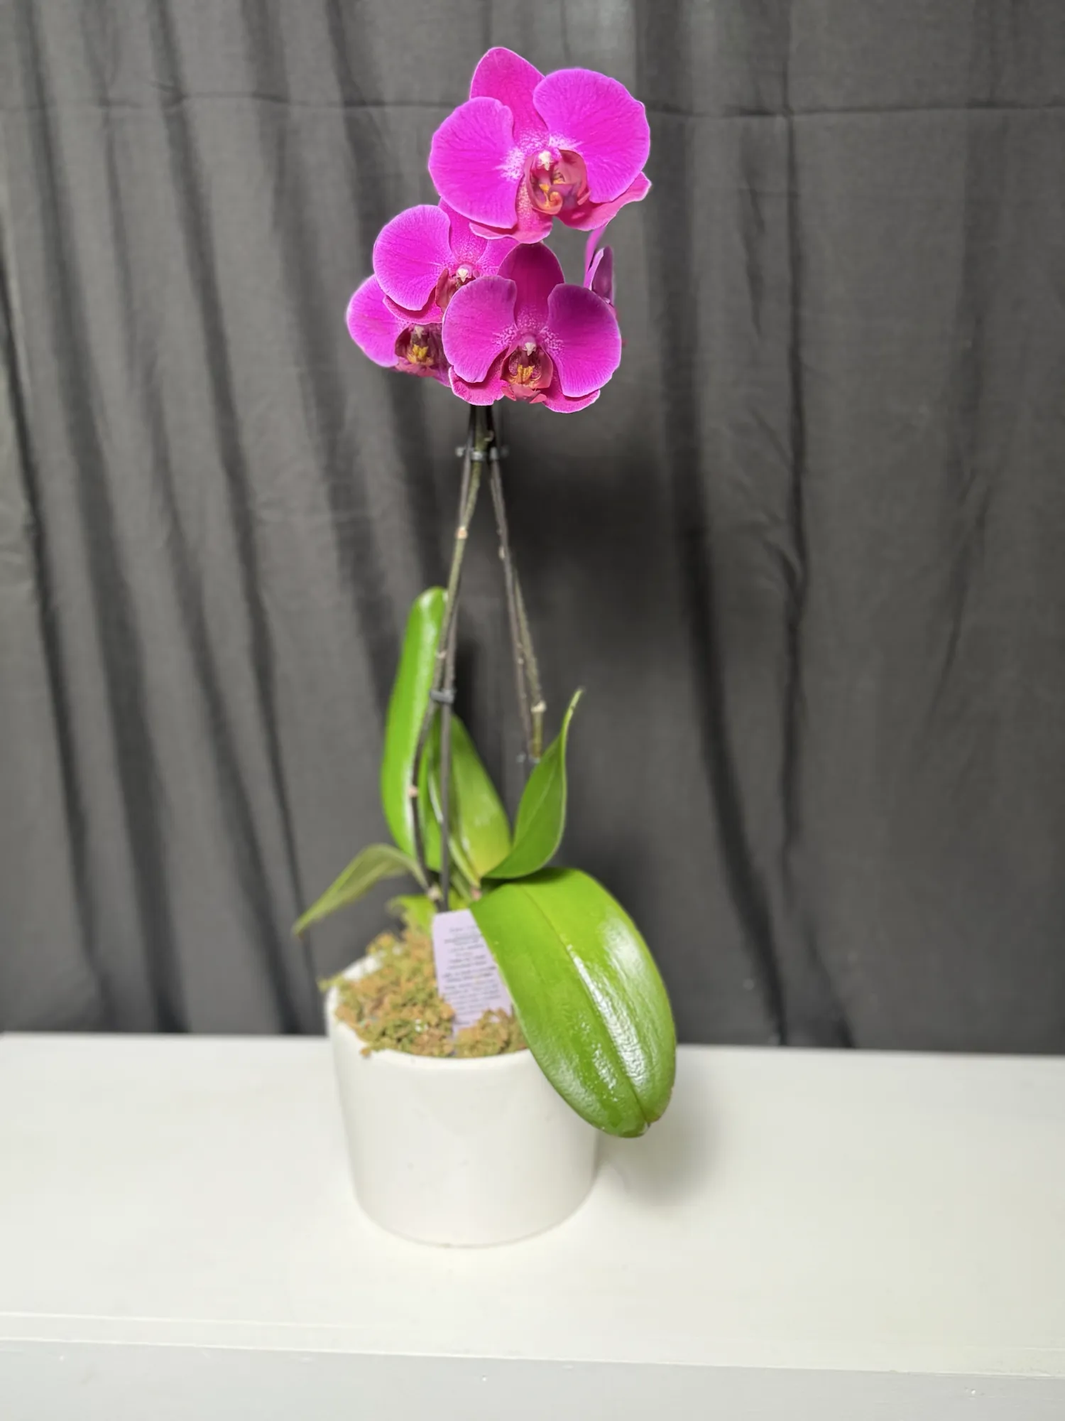
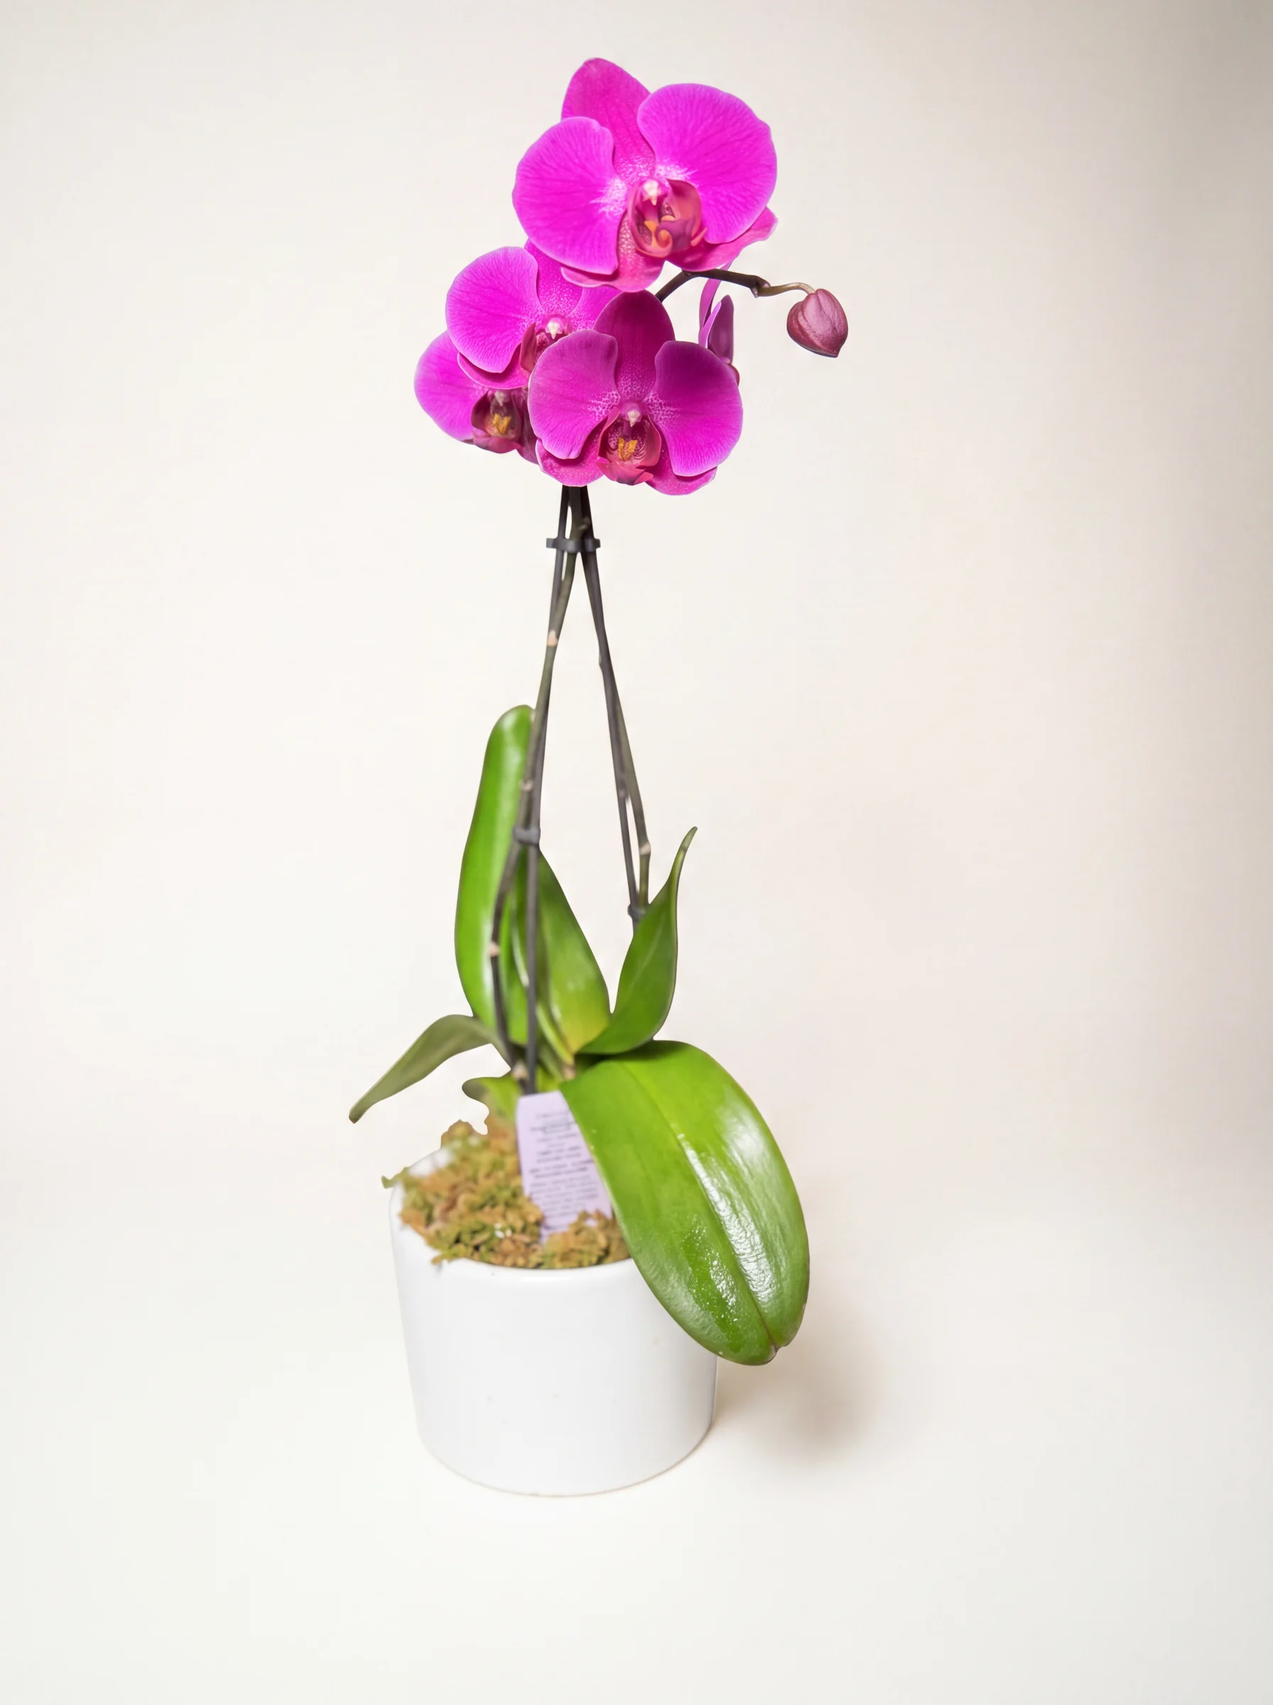
feat(catalog): five arrangements from the September shoot, and one orchid set
Maky shot twelve pieces on 1–3 Sep against the black cloth and the white table.
Every one of them went through the image studio with the background directive we
already use: replace only the surface and the backdrop, keep the arrangement
flower for flower, leave a real contact shadow so nothing looks cut and pasted.

Five products, prices Maky set
soft-landing $90, chantilly-cream $120, rose-quartz $125, pink-persuasion $110,
cotton-candy $115. Single Standard variant each, because that is the one price
Maky quoted — the Grand/Diva tiers other entries carry were never real for these.
Copy names the actual stems (hydrangea, garden rose, cymbidium, lisianthus) so
the generated title and the PDP accordion have something true to work from;
"Chantilly Cream" and not "Chantilly Garden" because the descriptor injects
"Garden Rose" and the title would have said Garden twice.

The orchid page is one series now
The phalaenopsis gallery mixed one edited photo with three raw ones — black
cloth, white table, the shop's fluorescent light. The pink single and the
fuchsia are re-edited onto the same bone cyclorama the white single already had,
and the new two-stem photo replaces the old raw pink double, in the gallery and
on the "Two stems · $85" card. The $85 price is unchanged; it was already right.

Its description claimed a white ceramic pot, which the new photo is not — it is
a moss-topped glass cube — so the copy now allows both rather than showing a
vessel it says we do not send.
[…]

diff --git a/data/products.ts b/data/products.ts
@@ -2318,8 +2318,8 @@ export const PRODUCTS: Product[] = [
       es: "Una orquídea viva que florece dos o tres meses, no dos o tres días.",
     },
     description: {
-      en: "A phalaenopsis in a white ceramic pot, moss-topped, chosen from what's blooming best that morning. Cut flowers give you a week; this gives you eight to twelve weeks of bloom, and then it comes back next year if you let it. Choose one stem or two — the double is the one people notice from the doorway. Colors rotate with what's in: white, soft pink, fuchsia. Order before 2:00 pm for same-day delivery on Long Island. Care card included, and honestly the whole card comes down to: water once a week, never leave it sitting in a saucer.",
-      es: "Una phalaenopsis en maceta de cerámica blanca, con musgo, elegida entre las que mejor están floreciendo esa mañana. Las flores cortadas te dan una semana; esta te da de ocho a doce semanas de floración, y vuelve el año siguiente si la dejas. Elige un tallo o dos — la doble es la que se nota desde la puerta. Los colores rotan según lo que haya: blanca, rosa suave, fucsia. Pide antes de las 2:00 pm para entrega el mismo día en Long Island. Incluye tarjeta de cuidado, y la tarjeta entera se resume en: riega una vez por semana y nunca la dejes parada en el plato.",
+      en: "A phalaenopsis in a white ceramic pot or a moss-topped glass cube, chosen from what's blooming best that morning. Cut flowers give you a week; this gives you eight to twelve weeks of bloom, and then it comes back next year if you let it. Choose one stem or two — the double is the one people notice from the doorway. Colors rotate with what's in: white, soft pink, fuchsia. Order before 2:00 pm for same-day delivery on Long Island. Care card included, and honestly the whole card comes down to: water once a week, never leave it sitting in a saucer.",
+      es: "Una phalaenopsis en maceta de cerámica blanca o en cubo de cristal con musgo, elegida entre las que mejor están floreciendo esa mañana. Las flores cortadas te dan una semana; esta te da de ocho a doce semanas de floración, y vuelve el año siguiente si la dejas. Elige un tallo o dos — la doble es la que se nota desde la puerta. Los colores rotan según lo que haya: blanca, rosa suave, fucsia. Pide antes de las 2:00 pm para entrega el mismo día en Long Island. Incluye tarjeta de cuidado, y la tarjeta entera se resume en: riega una vez por semana y nunca la dejes parada en el plato.",
     },
     images: [
       {
@@ -2339,10 +2339,10 @@ export const PRODUCTS: Product[] = [
         aspect: "4/5",
       },
       {
-        src: "/products/phalaenopsis-pink-double.webp",
+        src: "/products/phalaenopsis-pink-double-glass.webp",
         alt: {
-          en: "Soft pink phalaenopsis orchid with two stems in a square white ceramic pot",
-          es: "Orquídea phalaenopsis rosa suave de dos tallos en maceta cuadrada de cerámica blanca",
+          en: "Soft pink phalaenopsis orchid with two stems in a glass cube topped with moss",
+          es: "Orquídea phalaenopsis rosa suave de dos tallos en cubo de cristal con musgo",
         },
         aspect: "4/5",
       },
@@ -3359,6 +3359,245 @@ export const PRODUCTS: Product[] = [
       description: {
         en: "Quiet winter arrangement with cedar, moss, and amaryllis. Same-day delivery on Long Island.",
         es: "Arreglo invernal sereno con cedro, musgo y amaryllis. Entrega el mismo día en Long Island.",
+      },
+    },
+  },
+  // ─── Shot in the studio 2026-09-03 ─────────────────
+  {
+    id: "p-arr-b4-01",
+    slug: "soft-landing",
+    title: { en: "Soft Landing", es: "Aterrizaje Suave" },
+    category: "arrangements",
+    blurb: {
+      en: "White hydrangea, blush roses, and cymbidium orchids, built low and round for a table people sit around.",
+      es: "Hortensias blancas, rosas blush y orquídeas cymbidium, bajo y redondo para una mesa donde la gente se sienta.",
+    },
+    description: {
+      en: "For the friend who has had a long week and would never say so — white hydrangea packed close, blush roses, pink cymbidium orchids, lavender lisianthus, and green viburnum, built low and round in a clear glass bowl so it clears a coffee table and never blocks a conversation. Pastel without turning sweet: the white hydrangea carries the light, the lavender lisianthus keeps it from reading like a nursery, and the cymbidium orchids are the detail people lean in for. It lands at the door and reads again from across the room, which is the whole point of sending flowers instead of a text. Order before 2:00 pm and it goes out today across Long Island, built to the photo in the same palette with whatever came in freshest that morning.",
+      es: "Para la amiga que tuvo una semana larga y jamás lo diría — hortensias blancas bien juntas, rosas blush, orquídeas cymbidium rosadas, lisianthus lavanda y viburnum verde, armado bajo y redondo en un cuenco de vidrio transparente para que quepa en una mesa de centro y no tape la conversación. Pastel sin volverse dulzón: la hortensia blanca lleva la luz, el lisianthus lavanda evita que parezca cuarto de bebé, y las orquídeas cymbidium son el detalle por el que la gente se acerca. Llega en la puerta y se vuelve a leer desde el otro lado del cuarto, que es justamente para lo que uno manda flores en vez de un mensaje. Pídelo antes de las 2:00 pm y sale hoy mismo por Long Island, armado como la foto en la misma paleta con lo que haya entrado más fresco esa mañana.",
+    },
+    images: [
+      {
+        src: "/products/soft-landing.jpg",
+        alt: {
+          en: "Low round arrangement of white hydrangea, blush roses, pink cymbidium orchids, and lavender lisianthus in a clear glass bowl",
+          es: "Arreglo bajo y redondo de hortensias blancas, rosas blush, orquídeas cymbidium rosadas y lisianthus lavanda en cuenco de vidrio transparente",
+        },
+        aspect: "4/5",
+      },
+    ],
+    variants: [
+      { id: "standard", label: { en: "Standard", es: "Estándar" }, priceCents: 9000 },
+    ],
+    tags: ["new", "same-day", "staff-pick"],
+    occasions: ["birthday", "get-well", "thinking-of-you", "new-baby", "congrats", "just-because"],
+    colorFamily: ["white", "pink", "pastel"],
+    active: true,
+    seo: {
+      title: { en: "Soft Landing — Diva Flowers", es: "Aterrizaje Suave — Diva Flowers" },
+      description: {
+        en: "Low round arrangement of white hydrangea, blush roses, and cymbidium orchids in clear glass. Same-day delivery on Long Island.",
+        es: "Arreglo bajo y redondo de hortensias blancas, rosas blush y orquídeas cymbidium en vidrio transparente. Entrega el mismo día en Long Island.",
+      },
+    },
+  },
+  {
+    id: "p-arr-b4-02",
+    slug: "chantilly-cream",
+    title: { en: "Chantilly Cream", es: "Crema Chantilly" },
+    category: "arrangements",
+    blurb: {
+      en: "Butter-cream garden roses and cymbidium orchids, packed close with green hydrangea.",
+      es: "Rosas de jardín color mantequilla y orquídeas cymbidium, bien juntas con hortensia verde.",
+    },
+    description: {
+      en: "For the one who sets the table properly even on a Wednesday — cream and butter garden roses opened wide, blush cymbidium orchids, white spray roses, green hydrangea, pink stock, and lisianthus, gathered close in a low glass bowl with eucalyptus spilling over one side. It is the arrangement that reads expensive without announcing it: no bright color, nothing spiky, just layers of cream and green that hold their shape for the better part of a week. Send it for the promotion, the dinner party, the apology that deserves more than a text. Order before 2:00 pm and it goes out today across Long Island, built to the photo in the same palette with whatever came in freshest that morning.",
+      es: "Para quien pone bien la mesa hasta un miércoles — rosas de jardín crema y mantequilla abiertas de par en par, orquídeas cymbidium blush, mini-rosas blancas, hortensia verde, alhelí rosado y lisianthus, reunidas en un cuenco bajo de vidrio con eucalipto cayendo por un costado. Es el arreglo que se ve caro sin anunciarlo: nada de color estridente, nada puntiagudo, solo capas de crema y verde que aguantan la forma casi una semana. Mándalo por el ascenso, por la cena, por la disculpa que merece más que un mensaje. Pídelo antes de las 2:00 pm y sale hoy mismo por Long Island, armado como la foto en la misma paleta con lo que haya entrado más fresco esa mañana.",
+    },
+    images: [
+      {
+        src: "/products/chantilly-cream.jpg",
+        alt: {
+          en: "Low arrangement of cream garden roses, blush cymbidium orchids, and green hydrangea in a glass bowl",
+          es: "Arreglo bajo de rosas de jardín crema, orquídeas cymbidium blush y hortensia verde en cuenco de vidrio",
+        },
+        aspect: "4/5",
+      },
+      {
+        src: "/products/chantilly-cream-2.jpg",
+        alt: {
+          en: "Chantilly Cream arrangement seen from above, cream garden roses and cymbidium orchids",
+          es: "Arreglo Crema Chantilly visto desde arriba, rosas de jardín crema y orquídeas cymbidium",
+        },
+        aspect: "4/5",
+      },
+    ],
+    variants: [
+      { id: "standard", label: { en: "Standard", es: "Estándar" }, priceCents: 12000 },
+    ],
+    tags: ["new", "same-day", "staff-pick"],
+    occasions: ["anniversary", "congrats", "birthday", "thank-you", "just-because"],
+    colorFamily: ["white", "green", "pastel"],
+    active: true,
+    seo: {
+      title: { en: "Chantilly Cream — Diva Flowers", es: "Crema Chantilly — Diva Flowers" },
+      description: {
+        en: "Cream garden roses, cymbidium orchids, and green hydrangea in a low glass bowl. Same-day delivery on Long Island.",
+        es: "Rosas de jardín crema, orquídeas cymbidium y hortensia verde en cuenco bajo de vidrio. Entrega el mismo día en Long Island.",
+      },
+    },
+  },
+  {
+    id: "p-arr-b4-03",
+    slug: "rose-quartz",
+    title: { en: "Rose Quartz", es: "Cuarzo Rosa" },
+    category: "arrangements",
+    blurb: {
+      en: "White lilies and mauve roses over antique-pink hydrangea — the quiet one that still fills a room.",
+      es: "Lirios blancos y rosas malva sobre hortensia rosa antiguo — el discreto que igual llena el cuarto.",
+    },
+    description: {
+      en: "For the one who reads the room before speaking — white lilies opening over mauve and cream garden roses, antique-pink hydrangea, white stock, calla lilies, and lavender lisianthus, with lily grass arching above the whole thing. Half the lilies arrive closed on purpose: they open across the week, so the arrangement is still becoming something on day five. The mauve keeps it out of nursery territory and the white stock brings the scent. Send it for the birthday that matters, the thank-you that has weight, the get-well that should not look cheerful. Order before 2:00 pm and it goes out today across Long Island, built to the photo in the same palette with whatever came in freshest that morning.",
+      es: "Para quien lee el cuarto antes de hablar — lirios blancos abriéndose sobre rosas de jardín malva y crema, hortensia rosa antiguo, alhelí blanco, callas y lisianthus lavanda, con lily grass arqueada por encima de todo. La mitad de los lirios llegan cerrados a propósito: abren a lo largo de la semana, así que al quinto día el arreglo todavía se está convirtiendo en algo. El malva lo saca del terreno de cuarto de bebé y el alhelí pone el aroma. Mándalo por el cumpleaños que importa, el gracias que pesa, el mejórate que no debería verse alegre. Pídelo antes de las 2:00 pm y sale hoy mismo por Long Island, armado como la foto en la misma paleta con lo que haya entrado más fresco esa mañana.",
+    },
+    images: [
+      {
+        src: "/products/rose-quartz.jpg",
+        alt: {
+          en: "Arrangement of white lilies, mauve roses, and antique-pink hydrangea in a clear glass bowl",
+          es: "Arreglo de lirios blancos, rosas malva y hortensia rosa antiguo en cuenco de vidrio transparente",
+        },
+        aspect: "4/5",
+      },
+      {
+        src: "/products/rose-quartz-2.jpg",
+        alt: {
+          en: "Rose Quartz arrangement from above, white lily open over pink hydrangea and mauve roses",
+          es: "Arreglo Cuarzo Rosa desde arriba, lirio blanco abierto sobre hortensia rosada y rosas malva",
+        },
+        aspect: "4/5",
+      },
+      {
+        src: "/products/rose-quartz-3.jpg",
+        alt: {
+          en: "Rose Quartz arrangement in a green ceramic cylinder with lilies, garden roses, and pink hydrangea",
+          es: "Arreglo Cuarzo Rosa en cilindro de cerámica verde con lirios, rosas de jardín y hortensia rosada",
+        },
+        aspect: "4/5",
+      },
+    ],
+    variants: [
+      { id: "standard", label: { en: "Standard", es: "Estándar" }, priceCents: 12500 },
+    ],
+    tags: ["new", "same-day", "staff-pick"],
+    occasions: ["birthday", "anniversary", "get-well", "thank-you", "thinking-of-you", "just-because"],
+    colorFamily: ["pink", "white", "pastel"],
+    active: true,
+    seo: {
+      title: { en: "Rose Quartz — Diva Flowers", es: "Cuarzo Rosa — Diva Flowers" },
+      description: {
+        en: "White lilies, mauve garden roses, and antique-pink hydrangea, built low in glass. Same-day delivery on Long Island.",
+        es: "Lirios blancos, rosas de jardín malva y hortensia rosa antiguo, armado bajo en vidrio. Entrega el mismo día en Long Island.",
+      },
+    },
+  },
+  {
+    id: "p-arr-b4-04",
+    slug: "pink-persuasion",
+    title: { en: "Pink Persuasion", es: "Persuasión Rosa" },
+    category: "arrangements",
+    blurb: {
+      en: "Hot pink roses against green hydrangea in a deep green cylinder — colour with a spine.",
+      es: "Rosas fucsia contra hortensia verde en cilindro verde profundo — color con carácter.",
+    },
+    description: {
+      en: "For the friend who never needed the volume turned down — hot pink roses at full open, blush and cream spray roses, pink lisianthus, and green hydrangea packed tight in a deep green ceramic cylinder. The green is doing the work here: it keeps the fuchsia from going sweet and gives the whole thing a hedge-clipped, deliberate edge. Compact enough for a desk or a nightstand, loud enough that nobody has to ask who sent it. Send it for the birthday, the new job, the Tuesday that needed rescuing. Order before 2:00 pm and it goes out today across Long Island, built to the photo in the same palette with whatever came in freshest that morning.",
+      es: "Para la amiga que nunca necesitó que le bajaran el volumen — rosas fucsia bien abiertas, mini-rosas blush y crema, lisianthus rosado y hortensia verde apretadas en un cilindro de cerámica verde profundo. El verde es el que hace el trabajo: evita que el fucsia se vuelva dulzón y le da al conjunto un filo recortado, deliberado. Compacto para un escritorio o una mesa de noche, y lo bastante fuerte para que nadie tenga que preguntar quién lo mandó. Mándalo por el cumpleaños, por el trabajo nuevo, por el martes que había que rescatar. Pídelo antes de las 2:00 pm y sale hoy mismo por Long Island, armado como la foto en la misma paleta con lo que haya entrado más fresco esa mañana.",
+    },
+    images: [
+      {
+        src: "/products/pink-persuasion.jpg",
+        alt: {
+          en: "Hot pink roses and green hydrangea in a deep green ceramic cylinder",
+          es: "Rosas fucsia y hortensia verde en cilindro de cerámica verde profundo",
+        },
+        aspect: "4/5",
+      },
+      {
+        src: "/products/pink-persuasion-2.jpg",
+        alt: {
+          en: "Pink Persuasion arrangement seen at a distance on a studio surface",
+          es: "Arreglo Persuasión Rosa visto a distancia sobre una superficie de estudio",
+        },
+        aspect: "4/5",
+      },
+      {
+        src: "/products/pink-persuasion-3.jpg",
+        alt: {
+          en: "Pink Persuasion from above, hot pink roses ringed with spray roses and lisianthus",
+          es: "Persuasión Rosa desde arriba, rosas fucsia rodeadas de mini-rosas y lisianthus",
+        },
+        aspect: "4/5",
+      },
+      {
+        src: "/products/pink-persuasion-4.jpg",
+        alt: {
+          en: "Overhead view of the Pink Persuasion dome of pink roses and green hydrangea",
+          es: "Vista cenital de la cúpula de rosas rosadas y hortensia verde de Persuasión Rosa",
+        },
+        aspect: "4/5",
+      },
+    ],
+    variants: [
+      { id: "standard", label: { en: "Standard", es: "Estándar" }, priceCents: 11000 },
+    ],
+    tags: ["new", "same-day", "staff-pick"],
+    occasions: ["birthday", "congrats", "romance", "graduation", "just-because"],
+    colorFamily: ["pink", "green", "mixed"],
+    active: true,
+    seo: {
+      title: { en: "Pink Persuasion — Diva Flowers", es: "Persuasión Rosa — Diva Flowers" },
+      description: {
+        en: "Hot pink roses with green hydrangea in a deep green ceramic cylinder. Same-day delivery on Long Island.",
+        es: "Rosas fucsia con hortensia verde en cilindro de cerámica verde profundo. Entrega el mismo día en Long Island.",
+      },
+    },
+  },
+  {
+    id: "p-arr-b4-05",
+    slug: "cotton-candy",
+    title: { en: "Cotton Candy", es: "Algodón de Azúcar" },
+    category: "arrangements",
+    blurb: {
+      en: "Fuchsia and peach roses in a cloud of baby's breath and blush lisianthus.",
+      es: "Rosas fucsia y durazno en una nube de paniculata y lisianthus blush.",
+    },
+    description: {
+      en: "For the one who still gets excited about her own birthday — fuchsia roses, peach and cream roses, blush lisianthus, and a cymbidium orchid tucked at the back, all of it drifting in baby's breath and variegated pittosporum. It is the sweetest thing we build and it is unapologetic about it: pink on pink on pink, held low and round so it sits on a kitchen island without anyone moving it. Send it for the birthday, the new baby, the friend who is having a week. Order before 2:00 pm and it goes out today across Long Island, built to the photo in the same palette with whatever came in freshest that morning.",
+      es: "Para la que todavía se emociona con su propio cumpleaños — rosas fucsia, rosas durazno y crema, lisianthus blush y una orquídea cymbidium metida al fondo, todo flotando en paniculata y pittosporum variegado. Es lo más dulce que armamos y no pide perdón por serlo: rosado sobre rosado sobre rosado, bajo y redondo para que se quede en la isla de la cocina sin que nadie lo mueva. Mándalo por el cumpleaños, por el bebé nuevo, por la amiga que está teniendo una semana. Pídelo antes de las 2:00 pm y sale hoy mismo por Long Island, armado como la foto en la misma paleta con lo que haya entrado más fresco esa mañana.",
+    },
+    images: [
+      {
+        src: "/products/cotton-candy.jpg",
+        alt: {
+          en: "Fuchsia and peach roses with baby's breath and blush lisianthus in a low bowl",
+          es: "Rosas fucsia y durazno con paniculata y lisianthus blush en cuenco bajo",
+        },
+        aspect: "4/5",
+      },
+    ],
+    variants: [
+      { id: "standard", label: { en: "Standard", es: "Estándar" }, priceCents: 11500 },
+    ],
+    tags: ["new", "same-day", "staff-pick"],
+    occasions: ["birthday", "new-baby", "congrats", "romance", "just-because"],
+    colorFamily: ["pink", "mixed", "pastel"],
+    active: true,
+    seo: {
+      title: { en: "Cotton Candy — Diva Flowers", es: "Algodón de Azúcar — Diva Flowers" },
+      description: {
+        en: "Fuchsia and peach roses with baby's breath and blush lisianthus. Same-day delivery on Long Island.",
+        es: "Rosas fucsia y durazno con paniculata y lisianthus blush. Entrega el mismo día en Long Island.",
       },
     },
   },

diff --git a/components/orchids/OrchidsSizes.tsx b/components/orchids/OrchidsSizes.tsx
@@ -12,7 +12,7 @@ const SLUG = "phalaenopsis-orchid";
 // One photo per size, so the card shows what you actually get.
 const PHOTO_BY_VARIANT: Record<string, string> = {
   single: "/products/phalaenopsis-white-single.webp",
-  double: "/products/phalaenopsis-pink-double.webp",
+  double: "/products/phalaenopsis-pink-double-glass.webp",
 };
 
 export async function OrchidsSizes({ locale }: { locale: Locale }) {

diff --git a/tests/unit/orchid-catalog.test.ts b/tests/unit/orchid-catalog.test.ts
@@ -30,7 +30,7 @@ describe("phalaenopsis-orchid", () => {
     expect(srcs).toEqual([
       "/products/phalaenopsis-white-single.webp",
       "/products/phalaenopsis-pink-single.webp",
-      "/products/phalaenopsis-pink-double.webp",
+      "/products/phalaenopsis-pink-double-glass.webp",
       "/products/phalaenopsis-fuchsia-double.webp",
     ]);
   });

diff --git a/tests/unit/OrchidsSizes.test.tsx b/tests/unit/OrchidsSizes.test.tsx
@@ -62,7 +62,7 @@ describe("OrchidsSizes", () => {
     const srcs = [...container.querySelectorAll("img")].map((i) => i.getAttribute("src"));
     expect(srcs).toEqual([
       "/products/phalaenopsis-white-single.webp",
-      "/products/phalaenopsis-pink-double.webp",
+      "/products/phalaenopsis-pink-double-glass.webp",
     ]);
   });
 
